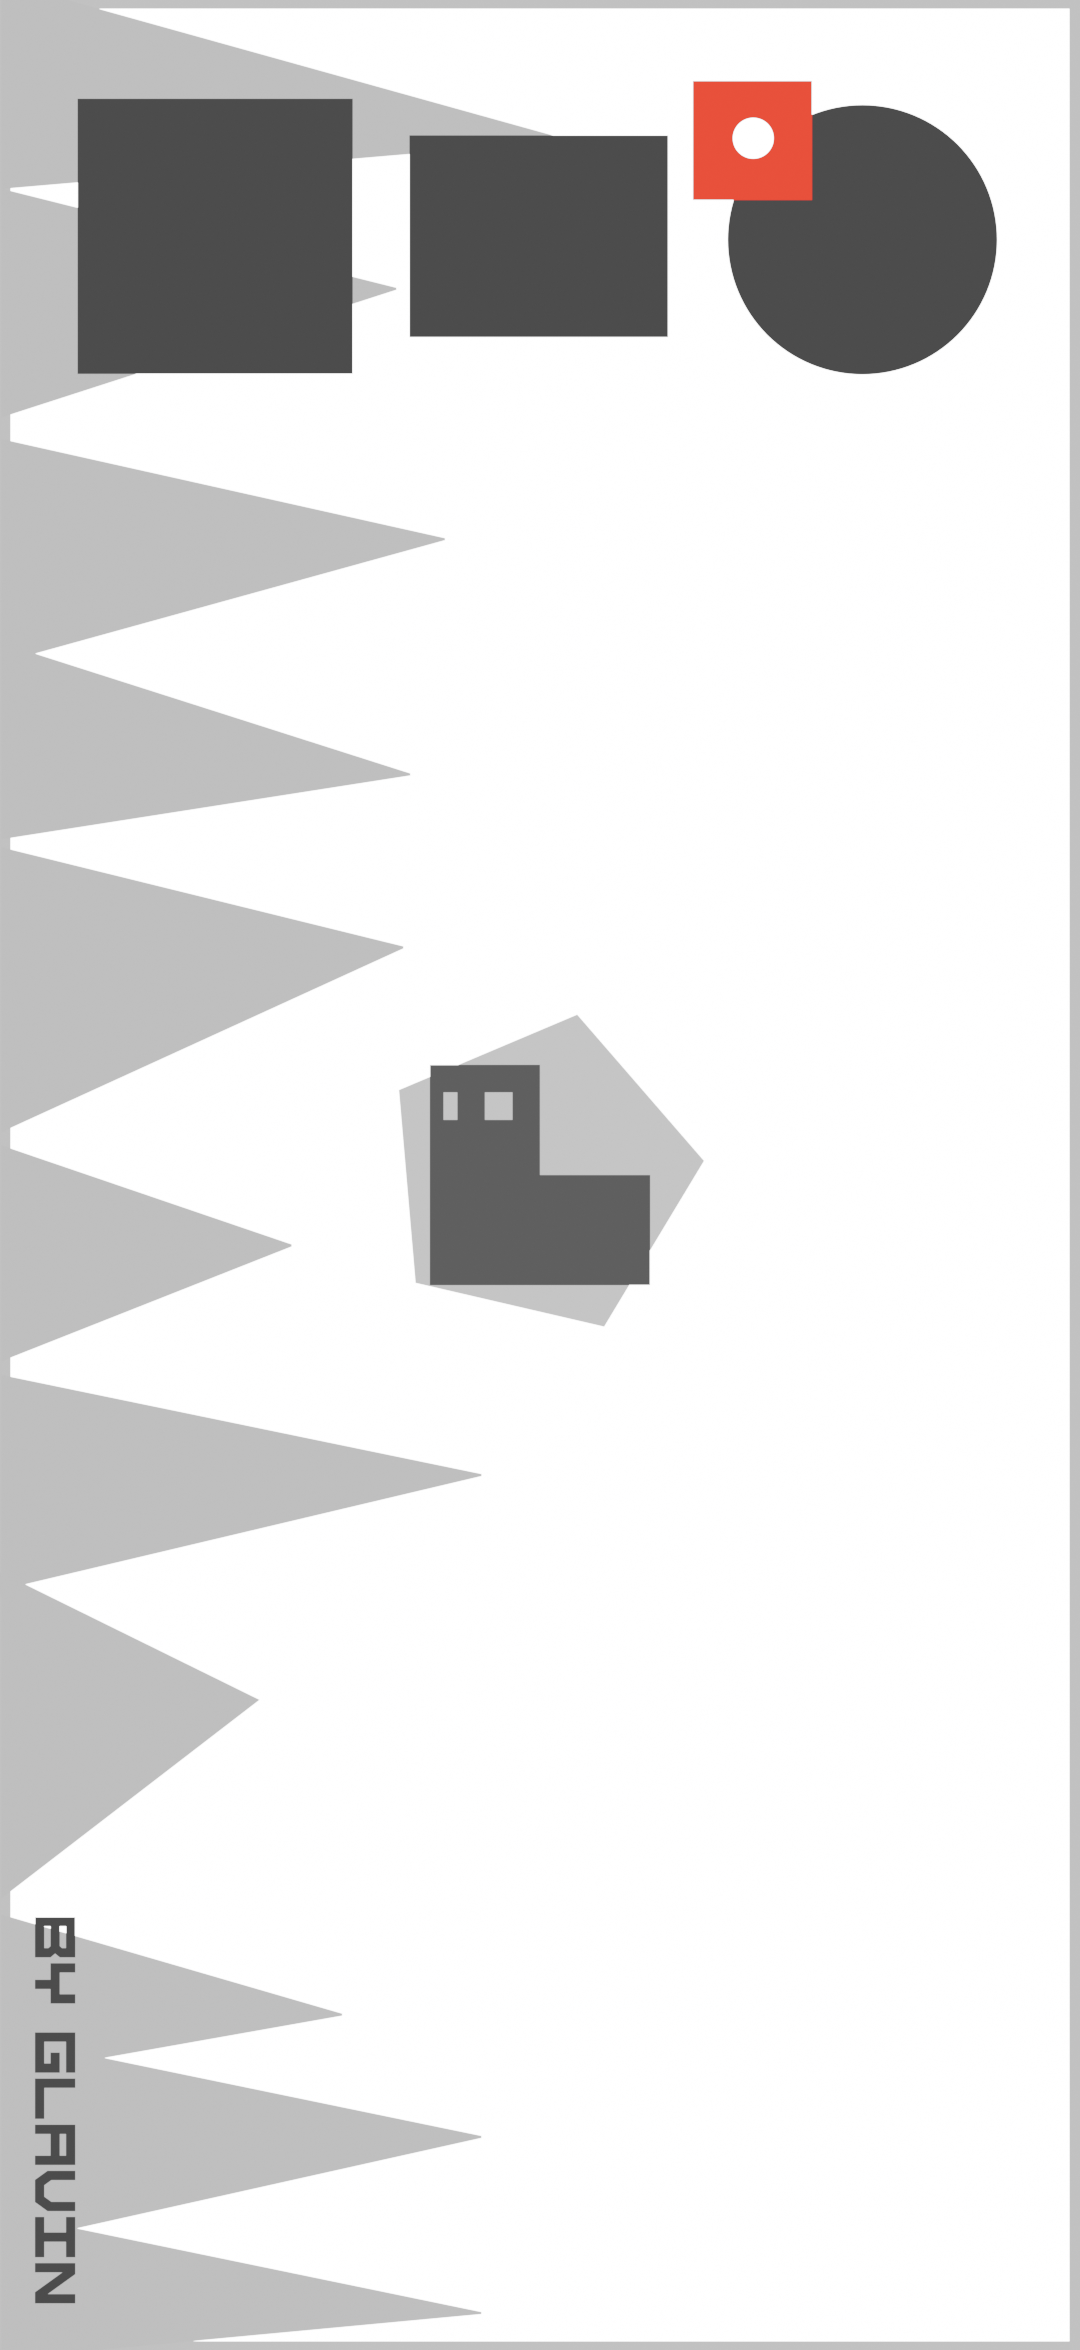
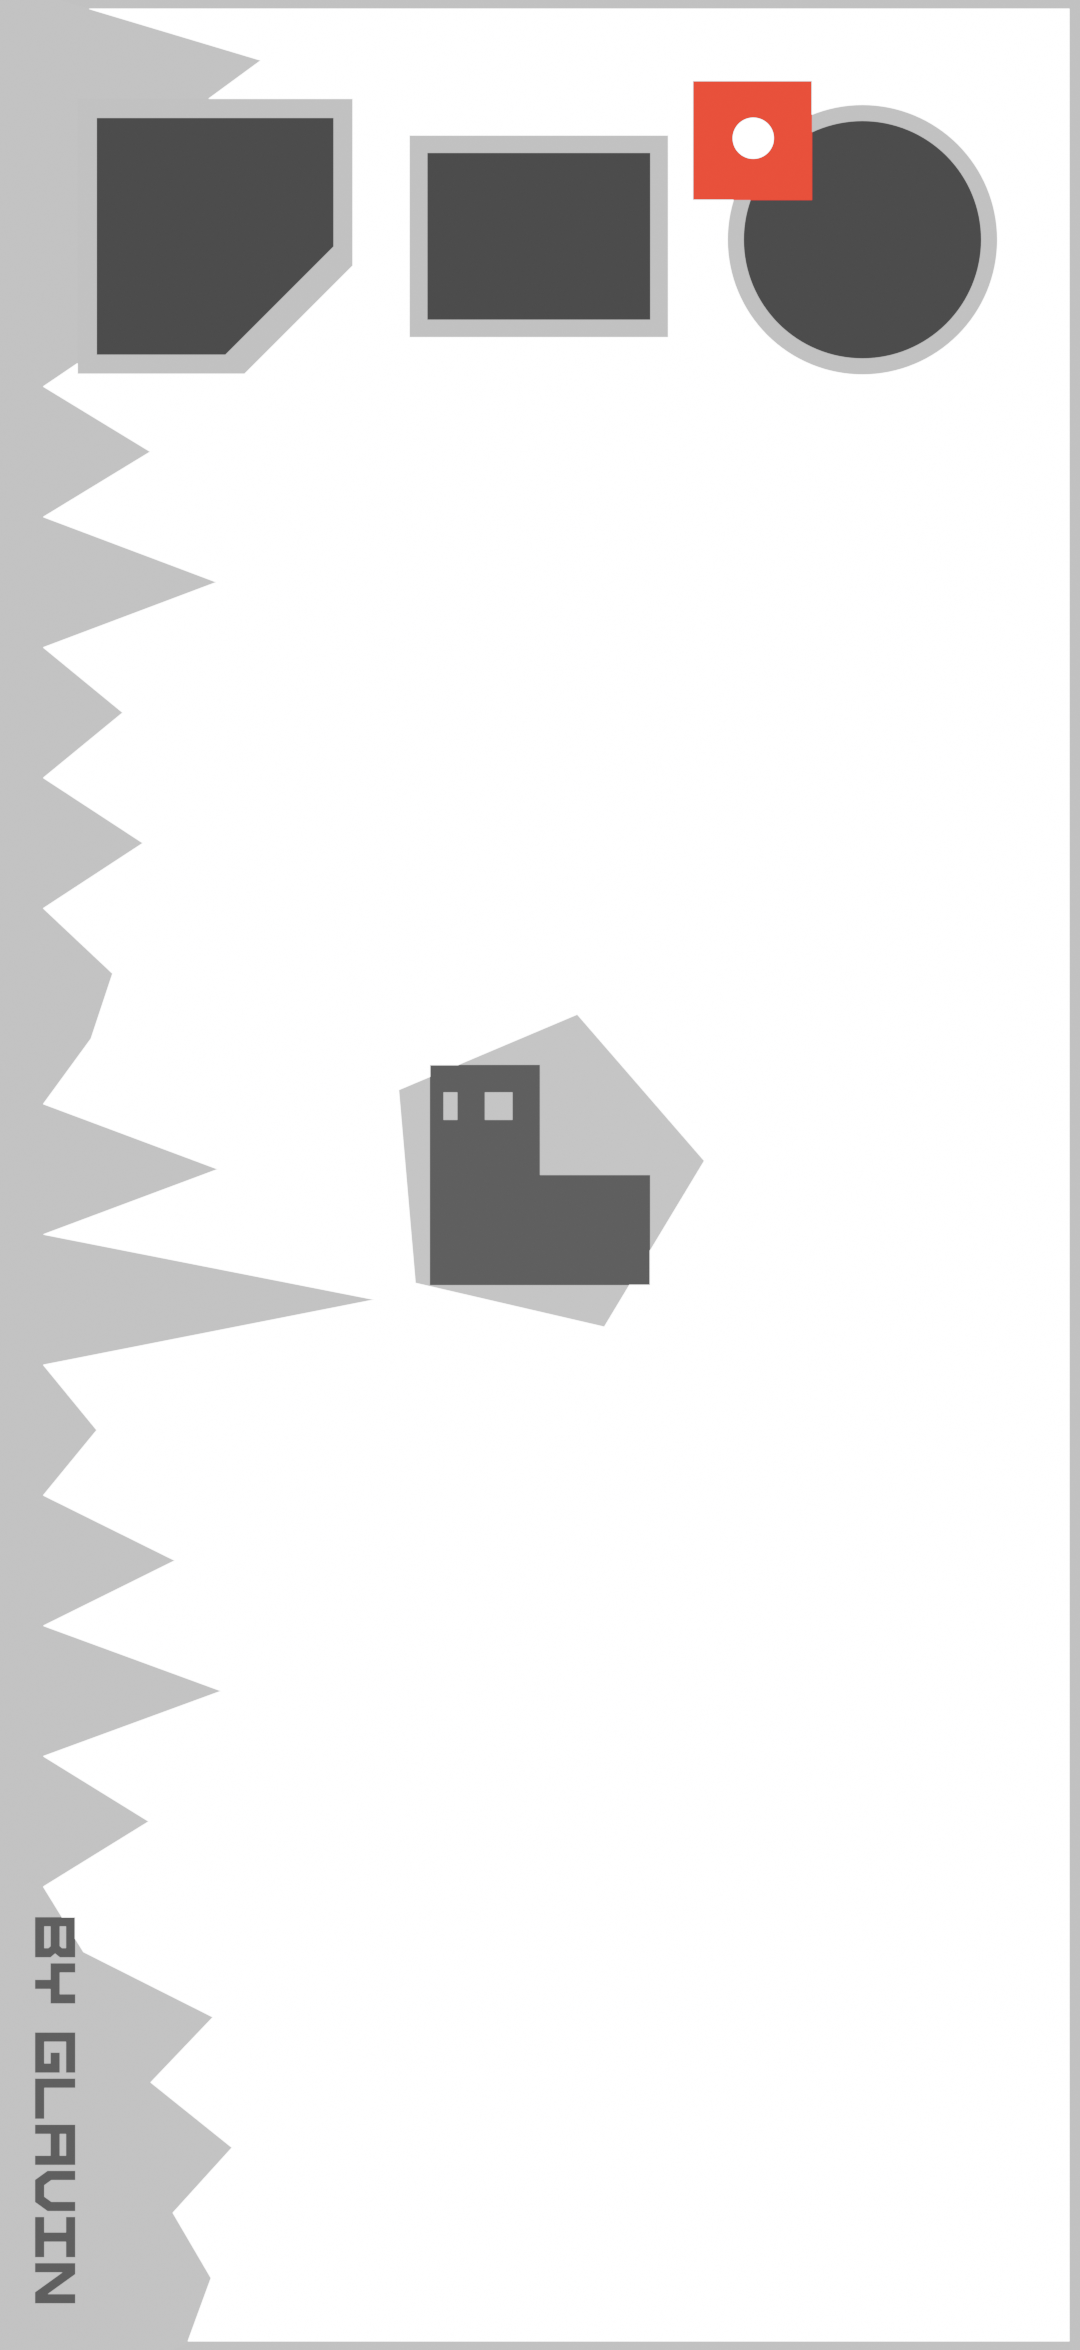
shnuk3

Changed region(s): [[0.0, 0.0, 0.6417, 1.0], [0.6722, 0.0621, 0.9472, 0.1864], [0.7639, 0.0311, 0.8861, 0.0621]]

diff --git a/index.html b/index.html
@@ -1121,7 +1121,7 @@
             <div class="team-grid">
                 <div class="team-member">
                     <div class="member-name">Главин Мстислав</div>
-                    <div class="member-role">Маркетинг, производство, поддержка</div>
+                    <div class="member-role">Глава компании, маркетинг, производство, поддержка</div>
                 </div>
                 <div class="team-member">
                     <div class="member-name">Илья Степанов</div>
@@ -1137,7 +1137,7 @@
                 </div>
                 <div class="team-member">
                     <div class="member-name">Роман Мужиков</div>
-                    <div class="member-role">Основатель</div>
+                    <div class="member-role">Основатель, бывший глава компании</div>
                 </div>
             </div>
 
@@ -1266,21 +1266,21 @@
             const MODEL_DATA = [
                 {
                     key: "shnuk2.png",
-                    name: "Shnuk 2",
+                    name: "Shnuk 3",
                     materials: [
                         "бумага"
                     ],
-                    functions: "Shnuk OS, 2 месяца обновлений системы, с 2026-09-20 по 2026-11-20",
-                    displayName: "SHNUK 2"
+                    functions: "Shnuk OS 2.0, 2 месяца обновлений системы, с 2026-09-29 по 2026-11-30",
+                    displayName: "SHNUK 3"
                 },
                 {
                     key: "2blaze.png",
-                    name: "Shnuk 2 Blaze",
+                    name: "Shnuk 3 Blaze",
                     materials: [
                         "бумага"
                     ],
-                    functions: "Shnuk OS, 3 месяца обновлений системы, с 2026-09-20 по 2026-12-20",
-                    displayName: "SHNUK 2 blaze"
+                    functions: "Shnuk OS 2.0, потдержка сервисов Cooop, 3 месяца обновлений системы, с 2026-09-29 по 2026-12-30",
+                    displayName: "SHNUK 3 blaze"
                 }
             ];
 
